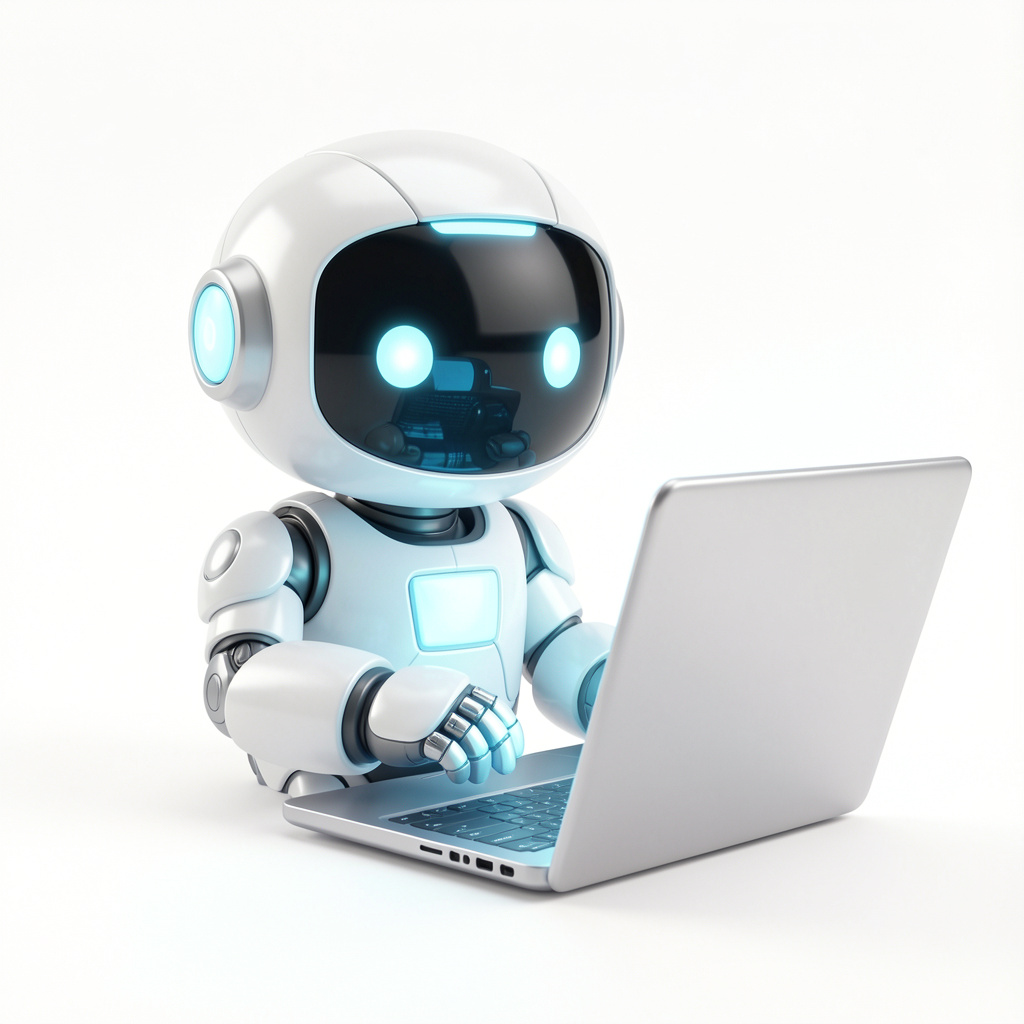
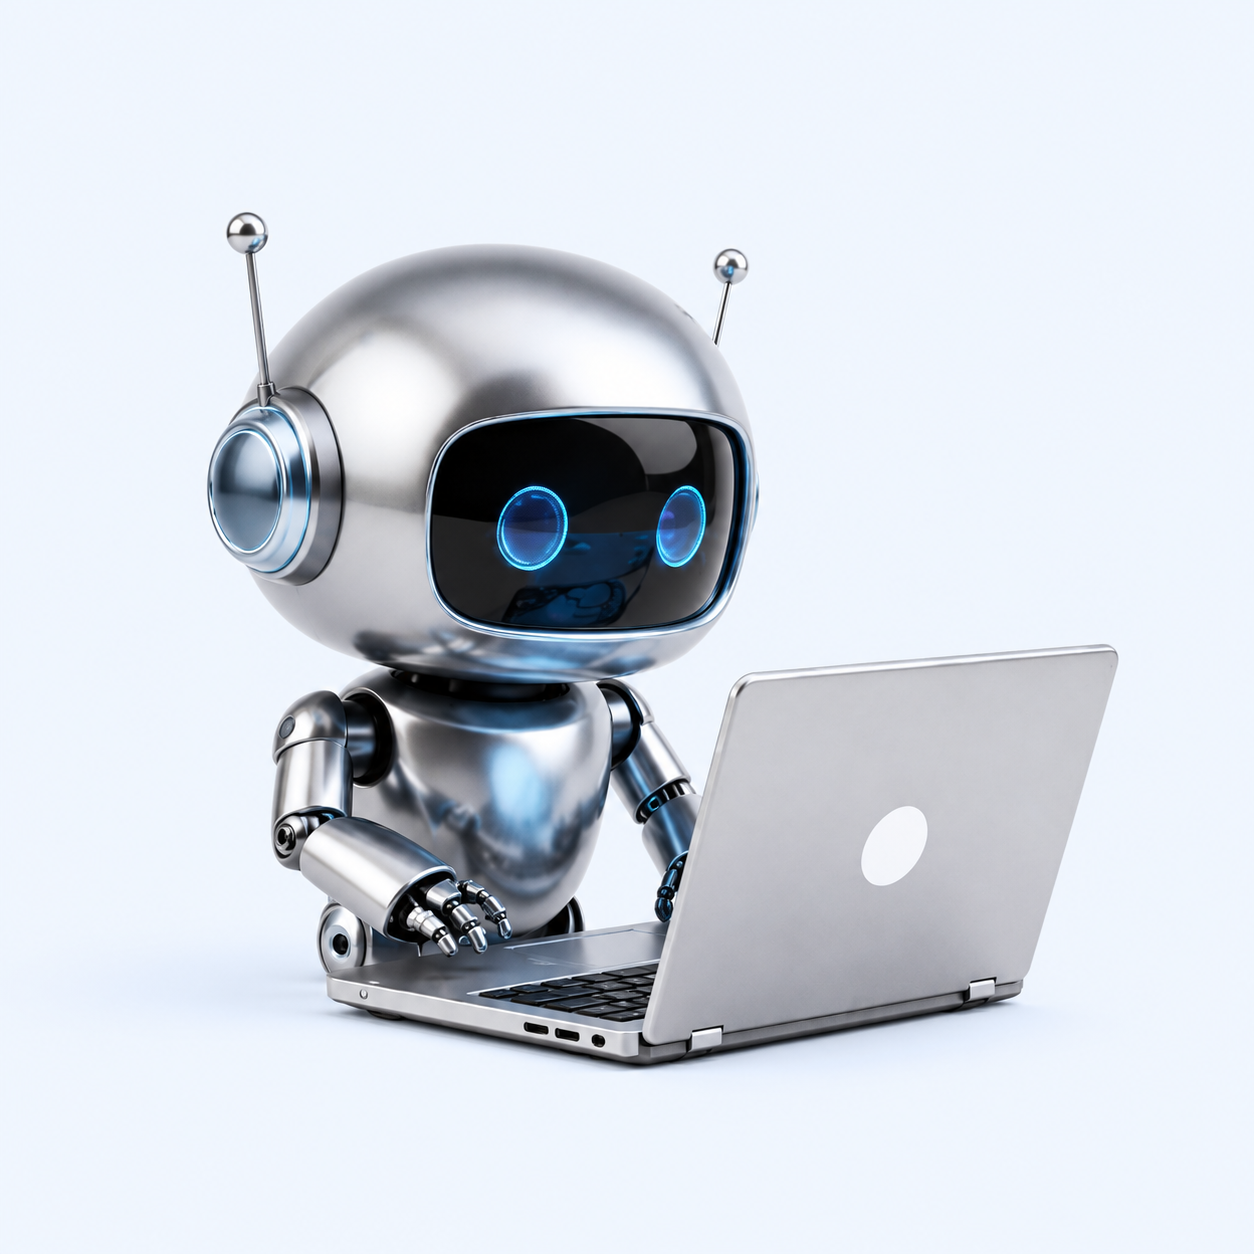
on development stage

Changed region(s): [[0.1562, 0.125, 0.9688, 0.9062], [0.6875, 0.625, 0.75, 0.7188]]

diff --git a/Frontend/src/components/auth/LeftPanel.jsx b/Frontend/src/components/auth/LeftPanel.jsx
@@ -8,77 +8,62 @@ import robot from "../../assets/images/robot.png";
 
 function LeftPanel() {
   return (
-    <div className="relative overflow-hidden bg-linear-to-br from-blue-50 via-white to-indigo-100 p-6 md:p-10 xl:p-14">
+    <div className="relative overflow-hidden bg-linear-to-br from-blue-50 via-white to-indigo-100 p-8 lg:p-10">
         {/* Background Decorations */}
 
-      <div className="absolute -top-20 -right-20 w-72 h-72 bg-blue-200 opacity-20 rounded-full blur-3xl"></div>
+        <div className="absolute -top-20 -right-20 w-72 h-72 bg-blue-200 opacity-20 rounded-full blur-3xl"></div>
 
-      <div className="absolute bottom-10 left-10 w-24 h-24 bg-indigo-300 opacity-20 rounded-full blur-xl"></div>
+        <div className="absolute bottom-10 left-10 w-24 h-24 bg-indigo-300 opacity-20 rounded-full blur-xl"></div>
 
-      <div className="absolute top-1/2 left-5 w-5 h-5 bg-blue-400 rounded-full"></div>
+        <div className="absolute top-1/2 left-5 w-5 h-5 bg-blue-400 rounded-full"></div>
 
-      <div className="absolute top-32 right-40 w-4 h-4 bg-purple-300 rounded-full"></div>
-      {/* Logo */}
-      <div className="flex items-center gap-3">
+        <div className="absolute top-32 right-40 w-4 h-4 bg-purple-300 rounded-full"></div>
+        {/* Logo */}
+        <div className="flex items-center gap-3">
 
-        <div className="w-12 h-12 rounded-full bg-blue-600 flex items-center justify-center">
-            <FaRobot className="text-white text-2xl" />
+            <div className="flex h-10 w-10 items-center justify-center rounded-full bg-blue-600">
+                <FaRobot className="text-white text-2xl" />
+            </div>
+
+            <div className="flex items-center gap-2">
+            <h1 className="text-[18px] font-bold tracking-tight text-slate-900">
+                InterviewIQ
+            </h1>
+
+            <span className="rounded-md bg-blue-600 px-2 py-0.5 text-[10px] font-semibold text-white">
+                AI
+            </span>
+            </div>
+
         </div>
 
-        <div className="flex items-center gap-2">
-          <h1 className="text-3xl font-bold text-slate-900">
-            InterviewIQ
-          </h1>
+        <div className="mt-20">
 
-          <span className="bg-blue-600 text-white text-xs px-2 py-1 rounded-lg">
-            AI
-          </span>
+            <h2 className="text-[18px] font-bold leading-[1.15] tracking-[-0.03em] text-slate-900">
+                Practice
+                <span className="text-blue-600"> Smarter.</span>
+                <br />
+                Get Hired
+                <span className="text-blue-600"> Faster.</span>
+            </h2>
+
+            <p className="mt-6 max-w-[420px] text-[18px] leading-8 text-slate-600">
+
+                AI-powered mock interviews,
+                real-time feedback,
+                resume analysis,
+                and personalized learning roadmap.
+
+            </p>
+
         </div>
 
-      </div>
-
-      <div className="mt-20">
-
-        <h2 className="text-4xl md:text-5xl xl:text-6xl font-bold leading-tight">
-
-            Practice
-
-            <span className="text-blue-600">
-            {" "}Smarter.
-            </span>
-
-            <br />
-
-            Get Hired
-
-            <span className="text-blue-600">
-            {" "}Faster.
-            </span>
-
-        </h2>
-
-        <p className="text-gray-600 text-base md:text-lg xl:text-xl mt-8 leading-9">
-
-            AI-powered mock interviews,
-            real-time feedback,
-            resume analysis,
-            and personalized learning roadmap.
-
-        </p>
-
-      </div>
-
-      <div className="rounded-2xl bg-white/90 backdrop-blur-md shadow-xl p-5 border border-gray-100">
-
+        <div className="relative mx-auto mt-10 w-full max-w-[420px] overflow-hidden p-6">
+            
             <img
                 src={robot}
                 alt="Robot"
-                className="
-                    mx-auto
-                    w-48
-                    md:w-64
-                    xl:w-80
-                    "
+                className="mx-auto w-[90%] object-contain"
             />
 
             {/* Card 1 */}
@@ -125,49 +110,54 @@ function LeftPanel() {
 
         </div>
 
-        <div className="mt-10 md:mt-16 space-y-5">
+        <div className="mt-12 max-w-[260px] mx-auto space-y-8">
+            <div className="flex items-start gap-4 max-w-[280px] mx-auto">
+                <div className="flex h-10 w-10 shrink-0 items-center justify-center rounded-xl bg-blue-600">
+                    <FaFileAlt className="text-sm text-white" />
+                </div>
 
-            <div className="flex gap-4">
-                <div className="text-3xl"><FaFileAlt className="text-3xl text-blue-600" /></div>
-
-                <div>
-                <h3 className="font-semibold text-lg">
+                <div className="flex-1 text-left">
+                    <h3 className="text-[16px] font-semibold text-slate-900">
                     AI Resume Analysis
-                </h3>
+                    </h3>
 
-                <p className="text-gray-500">
-                    Improve your resume and beat ATS.
-                </p>
+                    <p className="mt-1 text-[13px] leading-5 text-slate-500">
+                    Improve your resume and beat the ATS.
+                    </p>
                 </div>
             </div>
 
-            <div className="flex gap-4">
-                <div className="text-3xl"><FaMicrophone className="text-3xl text-green-600" /></div>
+            <div className="flex items-start gap-4 max-w-[280px] mx-auto">
+                <div className="flex h-10 w-10 shrink-0 items-center justify-center rounded-xl bg-green-500">
+                    <FaMicrophone className="text-sm text-white" />
+                </div>
 
-                <div>
-                <h3 className="font-semibold text-lg">
+                <div className="flex-1 text-left">
+                    <h3 className="text-[16px] font-semibold text-slate-900">
                     Mock Interviews
-                </h3>
+                    </h3>
 
-                <p className="text-gray-500">
-                    Practice with an AI interviewer.
-                </p>
+                    <p className="mt-1 text-[13px] leading-5 text-slate-500">
+                    Practice role-based interviews with AI interviewer.
+                    </p>
                 </div>
             </div>
+            <div className="flex items-start gap-4 max-w-[280px] mx-auto">
+                <div className="flex h-10 w-10 shrink-0 items-center justify-center rounded-xl bg-purple-500">
+                    <FaChartBar className="text-sm text-white" />
+                </div>
 
-            <div className="flex gap-4">
-                <div className="text-3xl"><FaChartBar className="text-3xl text-purple-600" /></div>
-
-                <div>
-                <h3 className="font-semibold text-lg">
+                <div className="flex-1 text-left">
+                    <h3 className="text-[16px] font-semibold text-slate-900">
                     Smart Feedback
-                </h3>
+                    </h3>
 
-                <p className="text-gray-500">
-                    Get detailed reports after every interview.
-                </p>
+                    <p className="mt-1 text-[13px] leading-5 text-slate-500">
+                    Get detailed feedback and track your progress.
+                    </p>
                 </div>
             </div>
+       
 
         </div>
 

diff --git a/Frontend/src/components/auth/LoginForm.jsx b/Frontend/src/components/auth/LoginForm.jsx
@@ -12,7 +12,9 @@ import {
   FaGoogle,
   FaGithub,
   FaLinkedin,
+
 } from "react-icons/fa";
+import { PiHandWavingFill } from "react-icons/pi";
 import Input from "../common/Input";
 import SocialButton from "../common/SocialButton";
 import Button from "../common/Button";
@@ -33,32 +35,38 @@ function LoginForm() {
   };
 
   return (
-    <div className="flex items-center justify-center p-6 md:p-10 xl:p-12">
-      <div className="w-full max-w-md">
+    <div className="">
+      <div className="mx-auto w-full max-w-[420px]">
 
         {/* Register Link */}
-        <div className="mb-10 text-right">
-          <span className="text-gray-500">New here? </span>
-          <button className="font-semibold text-blue-600 hover:underline">
+        <div className="mb-16 flex justify-end text-sm">
+          <span className="text-[#6B7280]">
+            New here?
+          </span>
+
+          <button className="ml-1 font-semibold text-[#2563EB] hover:underline">
             Create an account
           </button>
         </div>
 
         {/* Heading */}
-        <h1 className="mb-2 text-xl font-bold text-slate-900">
-          Welcome Back!👋
-        </h1>
+        <div className="mb-10">
+          <h1 className="flex items-center gap-3 text-[38px] font-bold leading-tight text-slate-900">
+              <span>Welcome Back!</span>
+              <PiHandWavingFill className="text-yellow-400 text-[38px]" />
+          </h1>
 
-        <p className="mb-10 text-gray-500">
-          Login to continue your interview journey
-        </p>
+          <p className="mt-3 text-[15px] leading-6 text-slate-500">
+            Login to continue your interview journey
+          </p>
+        </div>
 
         {/* Email */}
-        <div className="relative mb-6">
-          <Mail
-            size={20}
-            className="absolute left-4 top-1/2 -translate-y-1/2 text-gray-400"
-          />
+        
+        <div className="mb-6">
+          <label className="mb-2 block text-left text-sm font-medium text-slate-700">
+            Email address
+          </label>
 
           <Input
             type="email"

diff --git a/Frontend/src/components/common/Input.jsx b/Frontend/src/components/common/Input.jsx
@@ -24,15 +24,31 @@ function Input({
 
       {/* Input */}
       <input
-        type={isPassword && showPassword ? "text" : type}
-        placeholder={placeholder}
-        value={value}
-        onChange={onChange}
-        className={`w-full rounded-2xl border border-gray-300 py-4 ${
-          icon ? "pl-12" : "pl-4"
-        } ${isPassword ? "pr-12" : "pr-4"} outline-none transition focus:border-blue-500 focus:ring-2 focus:ring-blue-200 ${className}`}
-      />
-
+            name={name}
+            type={isPassword && showPassword ? "text" : type}
+            placeholder={placeholder}
+            value={value}
+            onChange={onChange}
+            className={`
+                h-14
+                w-full
+                rounded-xl
+                border
+                border-[#D8DEE9]
+                bg-white
+                pl-12
+                ${isPassword ? "pr-12" : "pr-4"}
+                text-[15px]
+                text-slate-800
+                placeholder:text-[#A3A3A3]
+                outline-none
+                transition-all
+                focus:border-[#3B82F6]
+                focus:ring-4
+                focus:ring-blue-100
+                ${className}
+            `}
+        />
       {/* Password Toggle */}
       {isPassword && (
         <button

diff --git a/Frontend/src/components/auth/AuthLayout.jsx b/Frontend/src/components/auth/AuthLayout.jsx
@@ -3,16 +3,20 @@ import Container from "../common/Container";
 
 function AuthLayout({ children }) {
   return (
-    <div className="min-h-screen bg-gray-100 flex items-center py-6">
+    <div className="min-h-screen py-6">
       <Container>
-        <div className="overflow-hidden rounded-3xl bg-white shadow-xl grid grid-cols-1 lg:grid-cols-2">
+        <div className="mx-auto max-w-[1400px] overflow-hidden rounded-3xl  shadow-xl">
 
-          {/* Left Side */}
-          <LeftPanel />
+          <div className="grid min-h-[900px] grid grid-cols-1 lg:grid-cols-[1fr_1fr]">
 
-          {/* Right Side */}
-          <div className="flex items-center justify-center p-6 md:p-10 xl:p-12">
-            {children}
+            {/* Left */}
+            <LeftPanel />
+
+            {/* Right */}
+            <div className="flex justify-center px-10 py-12 lg:px-12">
+              {children}
+            </div>
+
           </div>
 
         </div>
